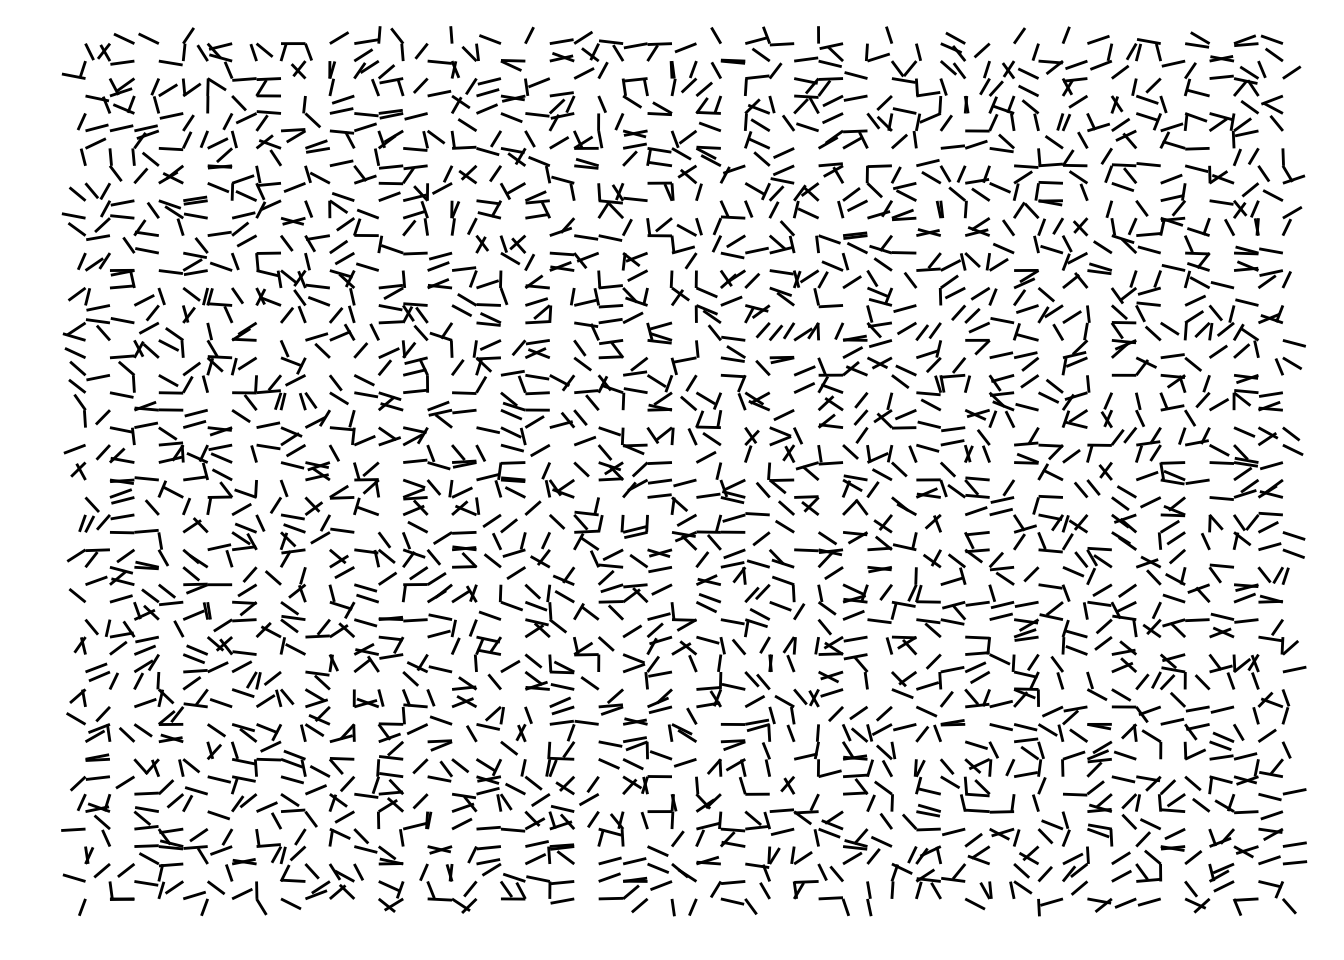
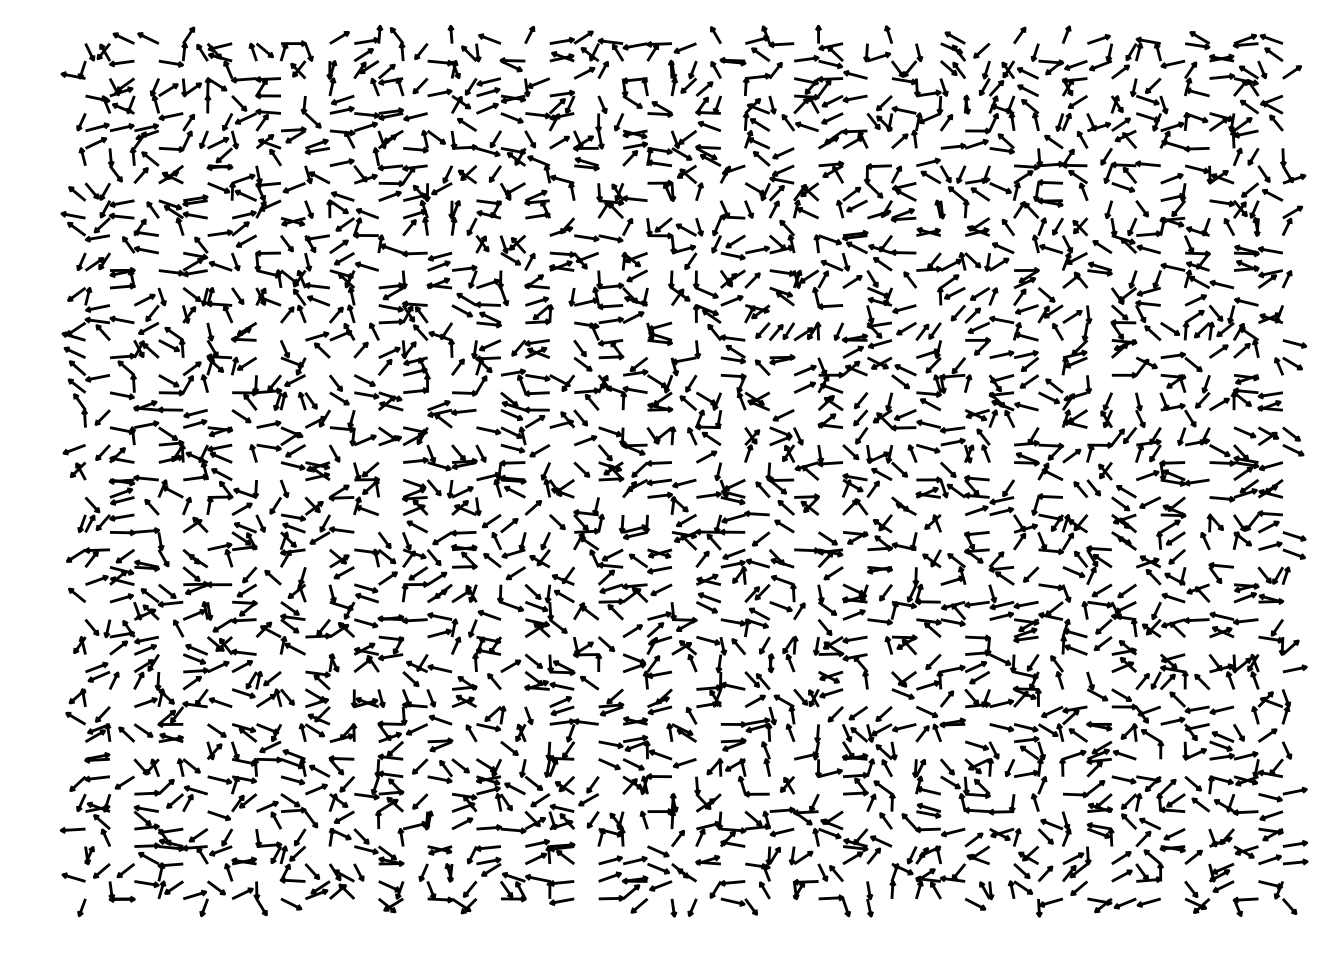
Add content

diff --git a/docs/Chapters/03-flow-fields.html b/docs/Chapters/03-flow-fields.html
@@ -345,29 +345,37 @@ window.Quarto = {
 <span id="cb4-5"><a href="#cb4-5" aria-hidden="true" tabindex="-1"></a>  grid <span class="ot">&lt;-</span> grid <span class="sc">%&gt;%</span> </span>
 <span id="cb4-6"><a href="#cb4-6" aria-hidden="true" tabindex="-1"></a>    <span class="fu">mutate</span>(</span>
 <span id="cb4-7"><a href="#cb4-7" aria-hidden="true" tabindex="-1"></a>      <span class="at">line_id =</span> <span class="fu">seq_len</span>(<span class="fu">nrow</span>(grid)),</span>
-<span id="cb4-8"><a href="#cb4-8" aria-hidden="true" tabindex="-1"></a>      <span class="at">x_line =</span> <span class="fu">map</span>(value, \(x) <span class="fu">c</span>(<span class="dv">0</span>, <span class="fu">cos</span>(x))),</span>
-<span id="cb4-9"><a href="#cb4-9" aria-hidden="true" tabindex="-1"></a>      <span class="at">y_line =</span> <span class="fu">map</span>(value, \(y) <span class="fu">c</span>(<span class="dv">0</span>, <span class="fu">sin</span>(y))),</span>
-<span id="cb4-10"><a href="#cb4-10" aria-hidden="true" tabindex="-1"></a>    ) <span class="sc">%&gt;%</span> </span>
-<span id="cb4-11"><a href="#cb4-11" aria-hidden="true" tabindex="-1"></a>    <span class="fu">unnest</span>(<span class="fu">c</span>(x_line, y_line))</span>
-<span id="cb4-12"><a href="#cb4-12" aria-hidden="true" tabindex="-1"></a>  </span>
-<span id="cb4-13"><a href="#cb4-13" aria-hidden="true" tabindex="-1"></a>  <span class="co"># Spread the lines across the grid</span></span>
-<span id="cb4-14"><a href="#cb4-14" aria-hidden="true" tabindex="-1"></a>  grid <span class="ot">&lt;-</span> grid <span class="sc">%&gt;%</span> </span>
-<span id="cb4-15"><a href="#cb4-15" aria-hidden="true" tabindex="-1"></a>    <span class="fu">mutate</span>(</span>
-<span id="cb4-16"><a href="#cb4-16" aria-hidden="true" tabindex="-1"></a>      <span class="at">x =</span> x <span class="sc">+</span> x_line,</span>
-<span id="cb4-17"><a href="#cb4-17" aria-hidden="true" tabindex="-1"></a>      <span class="at">y =</span> y <span class="sc">+</span> y_line</span>
-<span id="cb4-18"><a href="#cb4-18" aria-hidden="true" tabindex="-1"></a>    )</span>
-<span id="cb4-19"><a href="#cb4-19" aria-hidden="true" tabindex="-1"></a>  </span>
-<span id="cb4-20"><a href="#cb4-20" aria-hidden="true" tabindex="-1"></a>  <span class="co"># Plot these lines</span></span>
-<span id="cb4-21"><a href="#cb4-21" aria-hidden="true" tabindex="-1"></a>  <span class="fu">ggplot</span>(grid) <span class="sc">+</span></span>
-<span id="cb4-22"><a href="#cb4-22" aria-hidden="true" tabindex="-1"></a>    <span class="fu">geom_path</span>(<span class="fu">aes</span>(x, y, <span class="at">group =</span> line_id)) <span class="sc">+</span></span>
-<span id="cb4-23"><a href="#cb4-23" aria-hidden="true" tabindex="-1"></a>    <span class="fu">coord_cartesian</span>(</span>
-<span id="cb4-24"><a href="#cb4-24" aria-hidden="true" tabindex="-1"></a>      <span class="at">xlim =</span> <span class="fu">c</span>(<span class="dv">0</span>,n), <span class="at">ylim =</span> <span class="fu">c</span>(<span class="dv">0</span>,n)</span>
-<span id="cb4-25"><a href="#cb4-25" aria-hidden="true" tabindex="-1"></a>    ) <span class="sc">+</span></span>
-<span id="cb4-26"><a href="#cb4-26" aria-hidden="true" tabindex="-1"></a>    <span class="fu">theme_void</span>()</span>
-<span id="cb4-27"><a href="#cb4-27" aria-hidden="true" tabindex="-1"></a>}</span>
-<span id="cb4-28"><a href="#cb4-28" aria-hidden="true" tabindex="-1"></a></span>
-<span id="cb4-29"><a href="#cb4-29" aria-hidden="true" tabindex="-1"></a></span>
-<span id="cb4-30"><a href="#cb4-30" aria-hidden="true" tabindex="-1"></a><span class="fu">visualize_grid</span>(grid, n)</span></code><button title="Copy to Clipboard" class="code-copy-button"><i class="bi"></i></button></pre></div>
+<span id="cb4-8"><a href="#cb4-8" aria-hidden="true" tabindex="-1"></a>      <span class="at">xend =</span> <span class="fu">cos</span>(value),</span>
+<span id="cb4-9"><a href="#cb4-9" aria-hidden="true" tabindex="-1"></a>      <span class="at">yend =</span> <span class="fu">sin</span>(value),</span>
+<span id="cb4-10"><a href="#cb4-10" aria-hidden="true" tabindex="-1"></a>    )</span>
+<span id="cb4-11"><a href="#cb4-11" aria-hidden="true" tabindex="-1"></a>  </span>
+<span id="cb4-12"><a href="#cb4-12" aria-hidden="true" tabindex="-1"></a>  <span class="co"># Spread the lines across the grid</span></span>
+<span id="cb4-13"><a href="#cb4-13" aria-hidden="true" tabindex="-1"></a>  grid <span class="ot">&lt;-</span> grid <span class="sc">%&gt;%</span> </span>
+<span id="cb4-14"><a href="#cb4-14" aria-hidden="true" tabindex="-1"></a>    <span class="fu">mutate</span>(</span>
+<span id="cb4-15"><a href="#cb4-15" aria-hidden="true" tabindex="-1"></a>      <span class="at">xend =</span> xend <span class="sc">+</span> x,</span>
+<span id="cb4-16"><a href="#cb4-16" aria-hidden="true" tabindex="-1"></a>      <span class="at">yend =</span> yend <span class="sc">+</span> y</span>
+<span id="cb4-17"><a href="#cb4-17" aria-hidden="true" tabindex="-1"></a>    )</span>
+<span id="cb4-18"><a href="#cb4-18" aria-hidden="true" tabindex="-1"></a>  </span>
+<span id="cb4-19"><a href="#cb4-19" aria-hidden="true" tabindex="-1"></a>  <span class="co"># Plot these lines</span></span>
+<span id="cb4-20"><a href="#cb4-20" aria-hidden="true" tabindex="-1"></a>  u <span class="ot">&lt;-</span> <span class="st">"inches"</span></span>
+<span id="cb4-21"><a href="#cb4-21" aria-hidden="true" tabindex="-1"></a>  a <span class="ot">&lt;-</span> <span class="fu">arrow</span>(<span class="at">length =</span> <span class="fu">unit</span>(<span class="fl">0.025</span>, u))</span>
+<span id="cb4-22"><a href="#cb4-22" aria-hidden="true" tabindex="-1"></a>  <span class="fu">ggplot</span>(grid) <span class="sc">+</span></span>
+<span id="cb4-23"><a href="#cb4-23" aria-hidden="true" tabindex="-1"></a>    <span class="fu">geom_segment</span>(</span>
+<span id="cb4-24"><a href="#cb4-24" aria-hidden="true" tabindex="-1"></a>      <span class="fu">aes</span>(</span>
+<span id="cb4-25"><a href="#cb4-25" aria-hidden="true" tabindex="-1"></a>        <span class="at">x =</span> x, <span class="at">y =</span> y,</span>
+<span id="cb4-26"><a href="#cb4-26" aria-hidden="true" tabindex="-1"></a>        <span class="at">xend =</span> xend,<span class="at">yend =</span> yend,</span>
+<span id="cb4-27"><a href="#cb4-27" aria-hidden="true" tabindex="-1"></a>        <span class="at">group =</span> line_id</span>
+<span id="cb4-28"><a href="#cb4-28" aria-hidden="true" tabindex="-1"></a>      ),</span>
+<span id="cb4-29"><a href="#cb4-29" aria-hidden="true" tabindex="-1"></a>      <span class="at">arrow =</span> a</span>
+<span id="cb4-30"><a href="#cb4-30" aria-hidden="true" tabindex="-1"></a>    ) <span class="sc">+</span></span>
+<span id="cb4-31"><a href="#cb4-31" aria-hidden="true" tabindex="-1"></a>    <span class="fu">coord_cartesian</span>(</span>
+<span id="cb4-32"><a href="#cb4-32" aria-hidden="true" tabindex="-1"></a>      <span class="at">xlim =</span> <span class="fu">c</span>(<span class="dv">0</span>,n), <span class="at">ylim =</span> <span class="fu">c</span>(<span class="dv">0</span>,n)</span>
+<span id="cb4-33"><a href="#cb4-33" aria-hidden="true" tabindex="-1"></a>    ) <span class="sc">+</span></span>
+<span id="cb4-34"><a href="#cb4-34" aria-hidden="true" tabindex="-1"></a>    <span class="fu">theme_void</span>()</span>
+<span id="cb4-35"><a href="#cb4-35" aria-hidden="true" tabindex="-1"></a>}</span>
+<span id="cb4-36"><a href="#cb4-36" aria-hidden="true" tabindex="-1"></a></span>
+<span id="cb4-37"><a href="#cb4-37" aria-hidden="true" tabindex="-1"></a></span>
+<span id="cb4-38"><a href="#cb4-38" aria-hidden="true" tabindex="-1"></a><span class="fu">visualize_grid</span>(grid, n)</span></code><button title="Copy to Clipboard" class="code-copy-button"><i class="bi"></i></button></pre></div>
 <div class="cell-output-display">
 <div>
 <figure class="figure">
@@ -402,15 +410,6 @@ window.Quarto = {
 </div>
 <p>In other words, this field is simply too much random! We do need to use random values to create an actual flow field. But these random values need to have some minimal level of resemblance with each other. That is why, <code>runif()</code> is not the best tool for generating a flow field.</p>
 <p>But despite this being a very messy field, you may find a new utility for it. Everything depends of your creativity! For example, this field as is, might be an interesting candidate to be a soft pattern in the background of your art. In other words, this flow field might not be the main character in your art, but he might be an element to support the rest of your idea.</p>
-<div class="cell">
-<div class="cell-output-display">
-<div>
-<figure class="figure">
-<p><img src="03-flow-fields_files/figure-html/unnamed-chunk-8-1.png" class="img-fluid figure-img" width="672"></p>
-</figure>
-</div>
-</div>
-</div>
 </section>
 </section>
 <section id="building-an-actual-flow-field-with-perlin-noise" class="level2" data-number="4.2">
@@ -475,7 +474,48 @@ window.Quarto = {
 <section id="drawing-curves-around-the-grid" class="level2" data-number="4.3">
 <h2 data-number="4.3" class="anchored" data-anchor-id="drawing-curves-around-the-grid"><span class="header-section-number">4.3</span> Drawing curves around the grid</h2>
 <p>Now that we have a functional flow field, we want to use it to actually draw things in the screen, specially curves.</p>
-<p>To do that, we need to walk across the grid. We choose a point in the grid as our starting point, and then, we start to walk in the grid by following the direction of the angles we encounter in the grid.</p>
+<p>To do that, we need to walk across the grid. We choose a point in the grid as our starting point, and then, we start to walk in the grid by following the direction of the angles we encounter in the grid. As we walk trough the grid, we collect the x and y coordinates of our position. When we finish walking, we can draw the line, or the curve by “connecting the dots”, i.e.&nbsp;connecting the x and y coordinates that we passed through.</p>
+<p>So, in essence, the steps for drawing a curve in a flow field are:</p>
+<ol type="1">
+<li>Choose a starting point in the grid.</li>
+<li>Look at the angle that is stored in the position of the grid that you are currently in.</li>
+<li>Take a step in the direction of that angle.</li>
+<li>Recalculate your current position in the grid.</li>
+<li>Comeback to step 2.</li>
+</ol>
+<p>You can see in the bullet points above that, we begin a loop at step 5. So we are repeatedly taking a step in the direction of an angle, recalculating our current position in the grid, and taking another step in the direction of an angle, and, as long as we stay inside the boundaries of the grid, we can repeat this pattern as much as we want to.</p>
+<p>As you walking trough the grid, the angle that you currently using might lead you to walk off the boundaries of the grid. In that you case, you should stop walking, before you go off the grid. Because if you pass trough the boundaries of the grid, then, the lookup process we perform to take an angle in the grid, will fail.</p>
+<p>We have the first dot, which is the starting point. Then we look at</p>
+<div class="cell">
+<div class="sourceCode cell-code" id="cb13"><pre class="sourceCode r code-with-copy"><code class="sourceCode r"><span id="cb13-1"><a href="#cb13-1" aria-hidden="true" tabindex="-1"></a><span class="co"># Set some variables</span></span>
+<span id="cb13-2"><a href="#cb13-2" aria-hidden="true" tabindex="-1"></a>n_steps <span class="ot">&lt;-</span> <span class="dv">15</span></span>
+<span id="cb13-3"><a href="#cb13-3" aria-hidden="true" tabindex="-1"></a>step_length <span class="ot">&lt;-</span> <span class="fl">0.1</span></span>
+<span id="cb13-4"><a href="#cb13-4" aria-hidden="true" tabindex="-1"></a>grid_width <span class="ot">&lt;-</span> <span class="dv">50</span></span>
+<span id="cb13-5"><a href="#cb13-5" aria-hidden="true" tabindex="-1"></a><span class="co"># Pre allocate space for the x and y</span></span>
+<span id="cb13-6"><a href="#cb13-6" aria-hidden="true" tabindex="-1"></a><span class="co"># coordinates of the curve we are drawing</span></span>
+<span id="cb13-7"><a href="#cb13-7" aria-hidden="true" tabindex="-1"></a>x_coords <span class="ot">&lt;-</span> <span class="fu">vector</span>(<span class="st">"double"</span>, <span class="at">length =</span> n_steps)</span>
+<span id="cb13-8"><a href="#cb13-8" aria-hidden="true" tabindex="-1"></a>y_coords <span class="ot">&lt;-</span> <span class="fu">vector</span>(<span class="st">"double"</span>, <span class="at">length =</span> n_steps)</span>
+<span id="cb13-9"><a href="#cb13-9" aria-hidden="true" tabindex="-1"></a></span>
+<span id="cb13-10"><a href="#cb13-10" aria-hidden="true" tabindex="-1"></a><span class="cf">for</span> (i <span class="cf">in</span> <span class="fu">seq_len</span>(n_steps)) {</span>
+<span id="cb13-11"><a href="#cb13-11" aria-hidden="true" tabindex="-1"></a>  column_index <span class="ot">&lt;-</span> <span class="fu">as.integer</span>(x_pos)</span>
+<span id="cb13-12"><a href="#cb13-12" aria-hidden="true" tabindex="-1"></a>  row_index <span class="ot">&lt;-</span> <span class="fu">as.integer</span>(y_pos)</span>
+<span id="cb13-13"><a href="#cb13-13" aria-hidden="true" tabindex="-1"></a>    </span>
+<span id="cb13-14"><a href="#cb13-14" aria-hidden="true" tabindex="-1"></a>  <span class="cf">if</span> (column_index <span class="sc">&lt;=</span> <span class="dv">0</span></span>
+<span id="cb13-15"><a href="#cb13-15" aria-hidden="true" tabindex="-1"></a>      <span class="sc">||</span> row_index <span class="sc">&lt;=</span> <span class="dv">0</span></span>
+<span id="cb13-16"><a href="#cb13-16" aria-hidden="true" tabindex="-1"></a>      <span class="sc">||</span> column_index <span class="sc">&gt;=</span> grid_width</span>
+<span id="cb13-17"><a href="#cb13-17" aria-hidden="true" tabindex="-1"></a>      <span class="sc">||</span> row_index <span class="sc">&gt;=</span> grid_height) {</span>
+<span id="cb13-18"><a href="#cb13-18" aria-hidden="true" tabindex="-1"></a>    <span class="cf">break</span></span>
+<span id="cb13-19"><a href="#cb13-19" aria-hidden="true" tabindex="-1"></a>  }</span>
+<span id="cb13-20"><a href="#cb13-20" aria-hidden="true" tabindex="-1"></a>  grid_angle <span class="ot">&lt;-</span> noise_as_angle[row_index, column_index]</span>
+<span id="cb13-21"><a href="#cb13-21" aria-hidden="true" tabindex="-1"></a>  x_step <span class="ot">&lt;-</span> step_length <span class="sc">*</span> <span class="fu">cos</span>(grid_angle)</span>
+<span id="cb13-22"><a href="#cb13-22" aria-hidden="true" tabindex="-1"></a>  y_step <span class="ot">&lt;-</span> step_length <span class="sc">*</span> <span class="fu">sin</span>(grid_angle)</span>
+<span id="cb13-23"><a href="#cb13-23" aria-hidden="true" tabindex="-1"></a>  x_pos <span class="ot">&lt;-</span> x_pos <span class="sc">+</span> x_step</span>
+<span id="cb13-24"><a href="#cb13-24" aria-hidden="true" tabindex="-1"></a>  y_pos <span class="ot">&lt;-</span> y_pos <span class="sc">+</span> y_step</span>
+<span id="cb13-25"><a href="#cb13-25" aria-hidden="true" tabindex="-1"></a>    </span>
+<span id="cb13-26"><a href="#cb13-26" aria-hidden="true" tabindex="-1"></a>  line_xs[i] <span class="ot">&lt;-</span> x_pos</span>
+<span id="cb13-27"><a href="#cb13-27" aria-hidden="true" tabindex="-1"></a>  line_ys[i] <span class="ot">&lt;-</span> y_pos</span>
+<span id="cb13-28"><a href="#cb13-28" aria-hidden="true" tabindex="-1"></a>}</span></code><button title="Copy to Clipboard" class="code-copy-button"><i class="bi"></i></button></pre></div>
+</div>
 
 
 <div id="refs" class="references csl-bib-body hanging-indent" data-entry-spacing="0" role="list" style="display: none">
